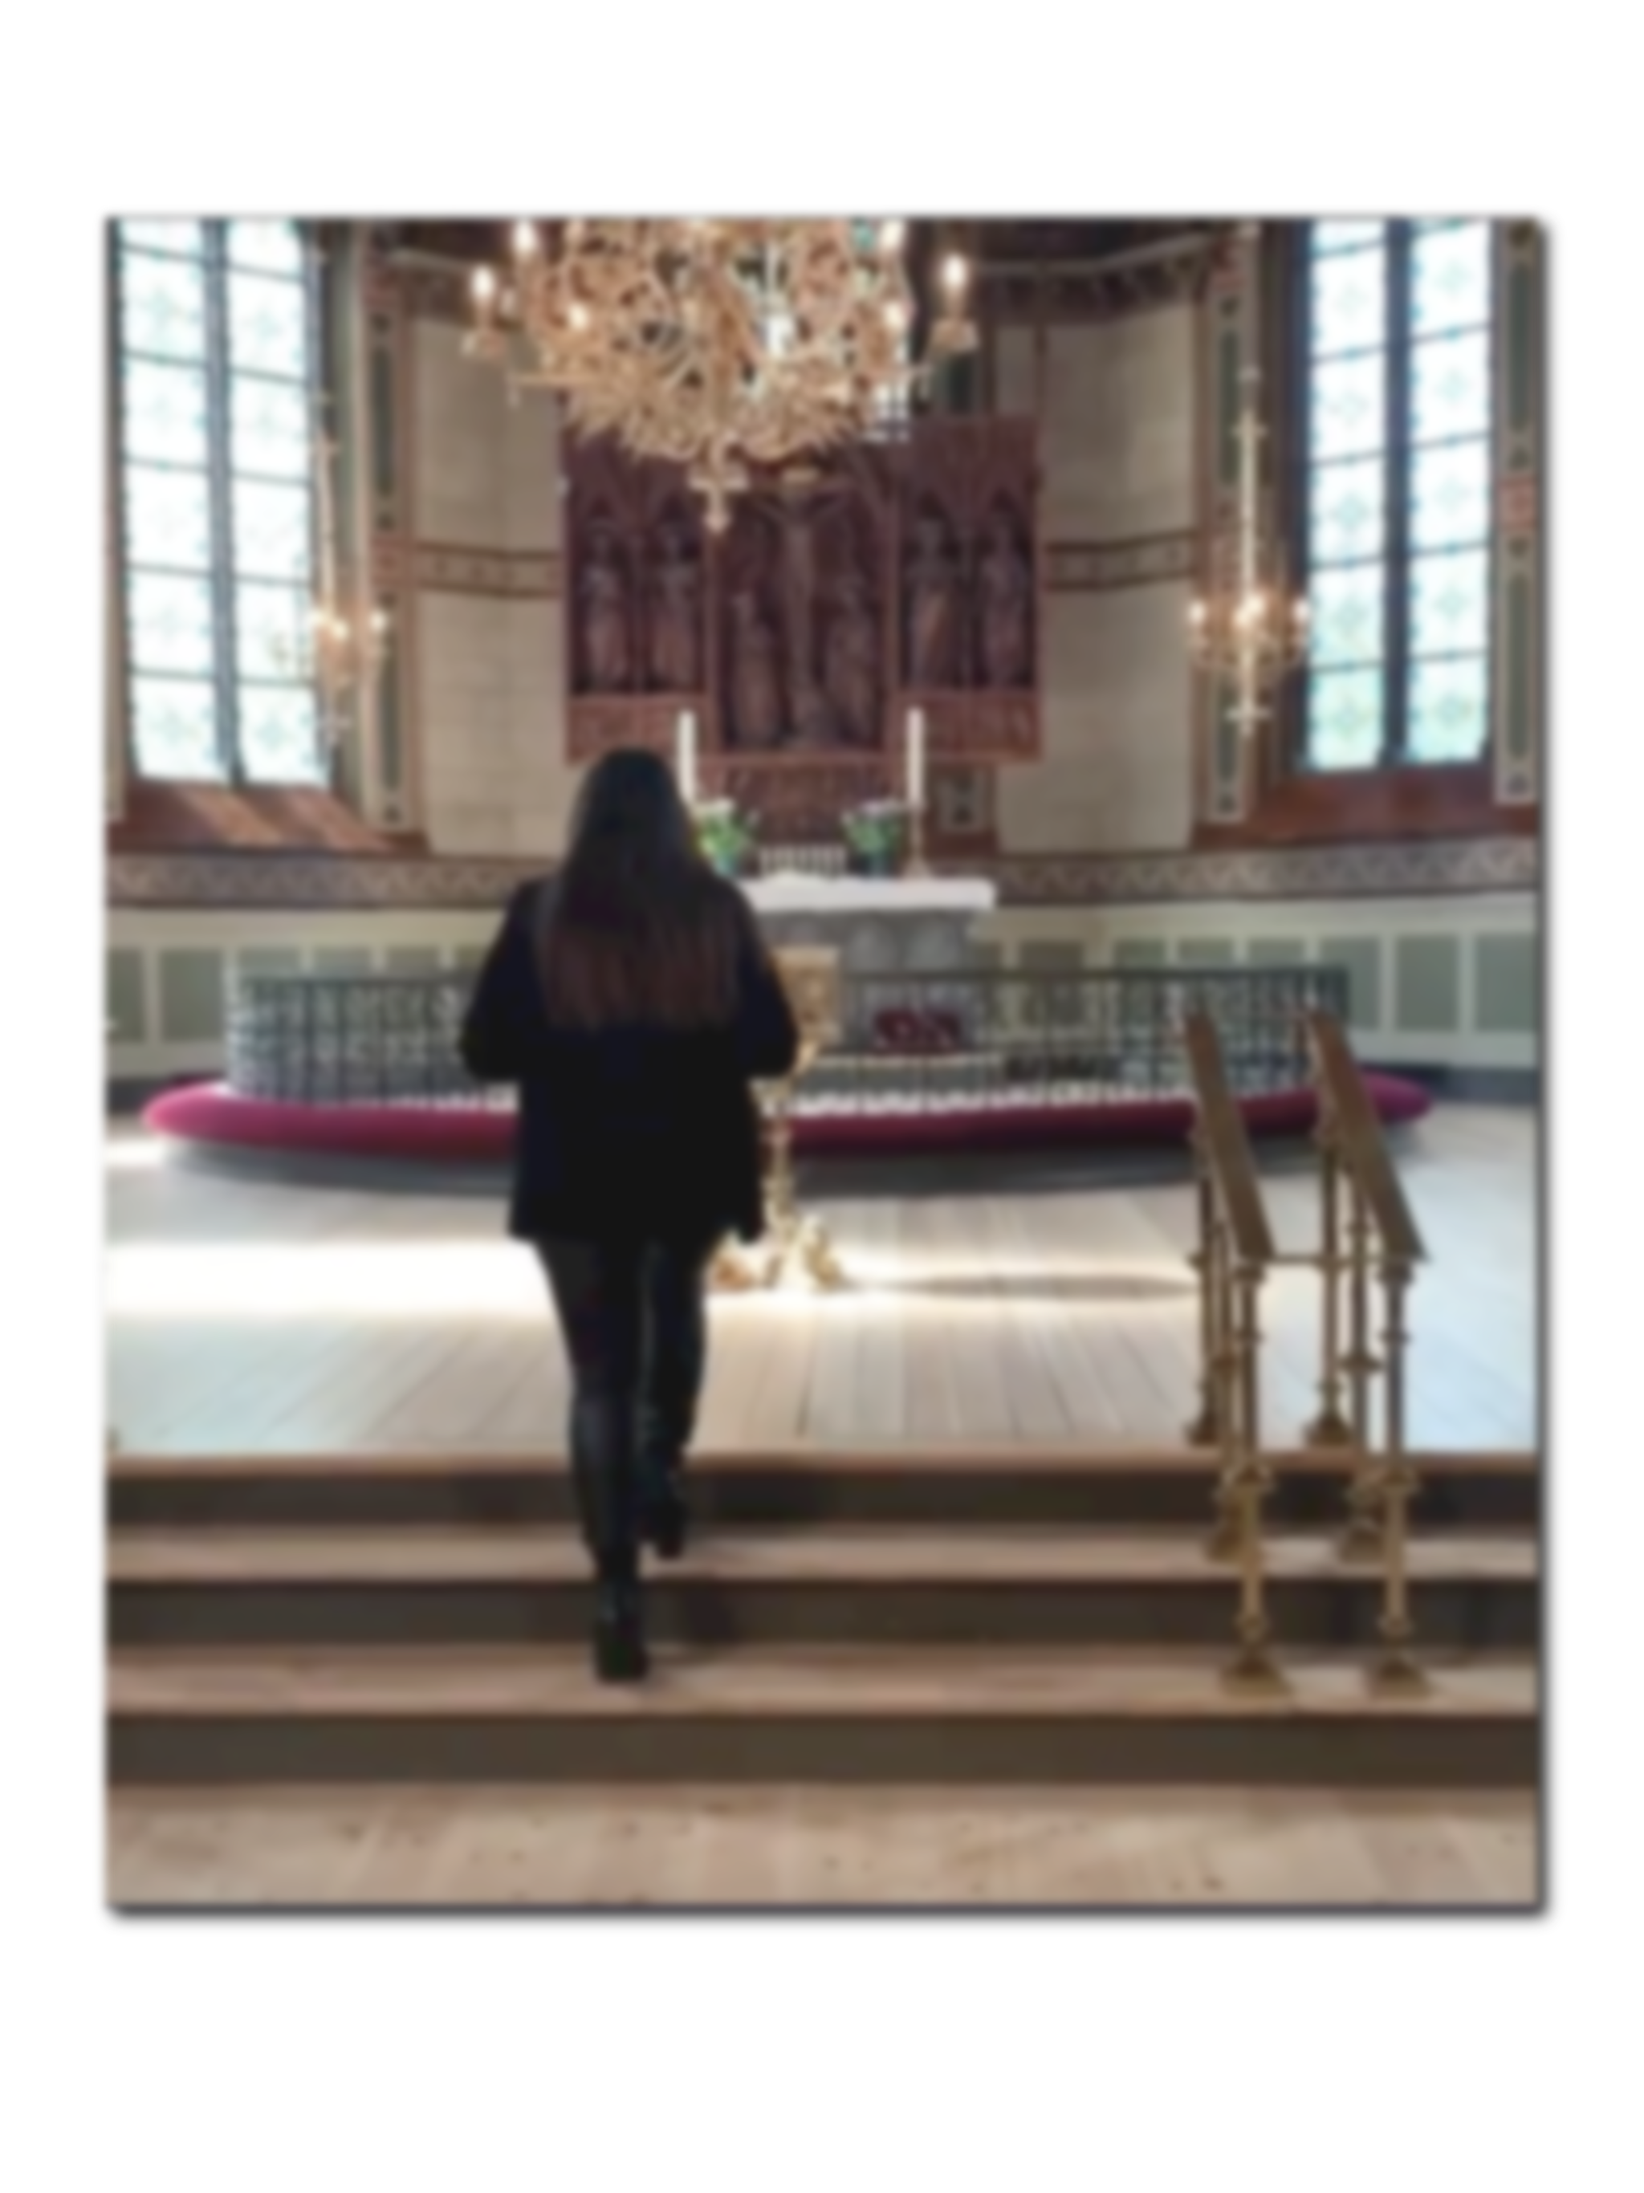
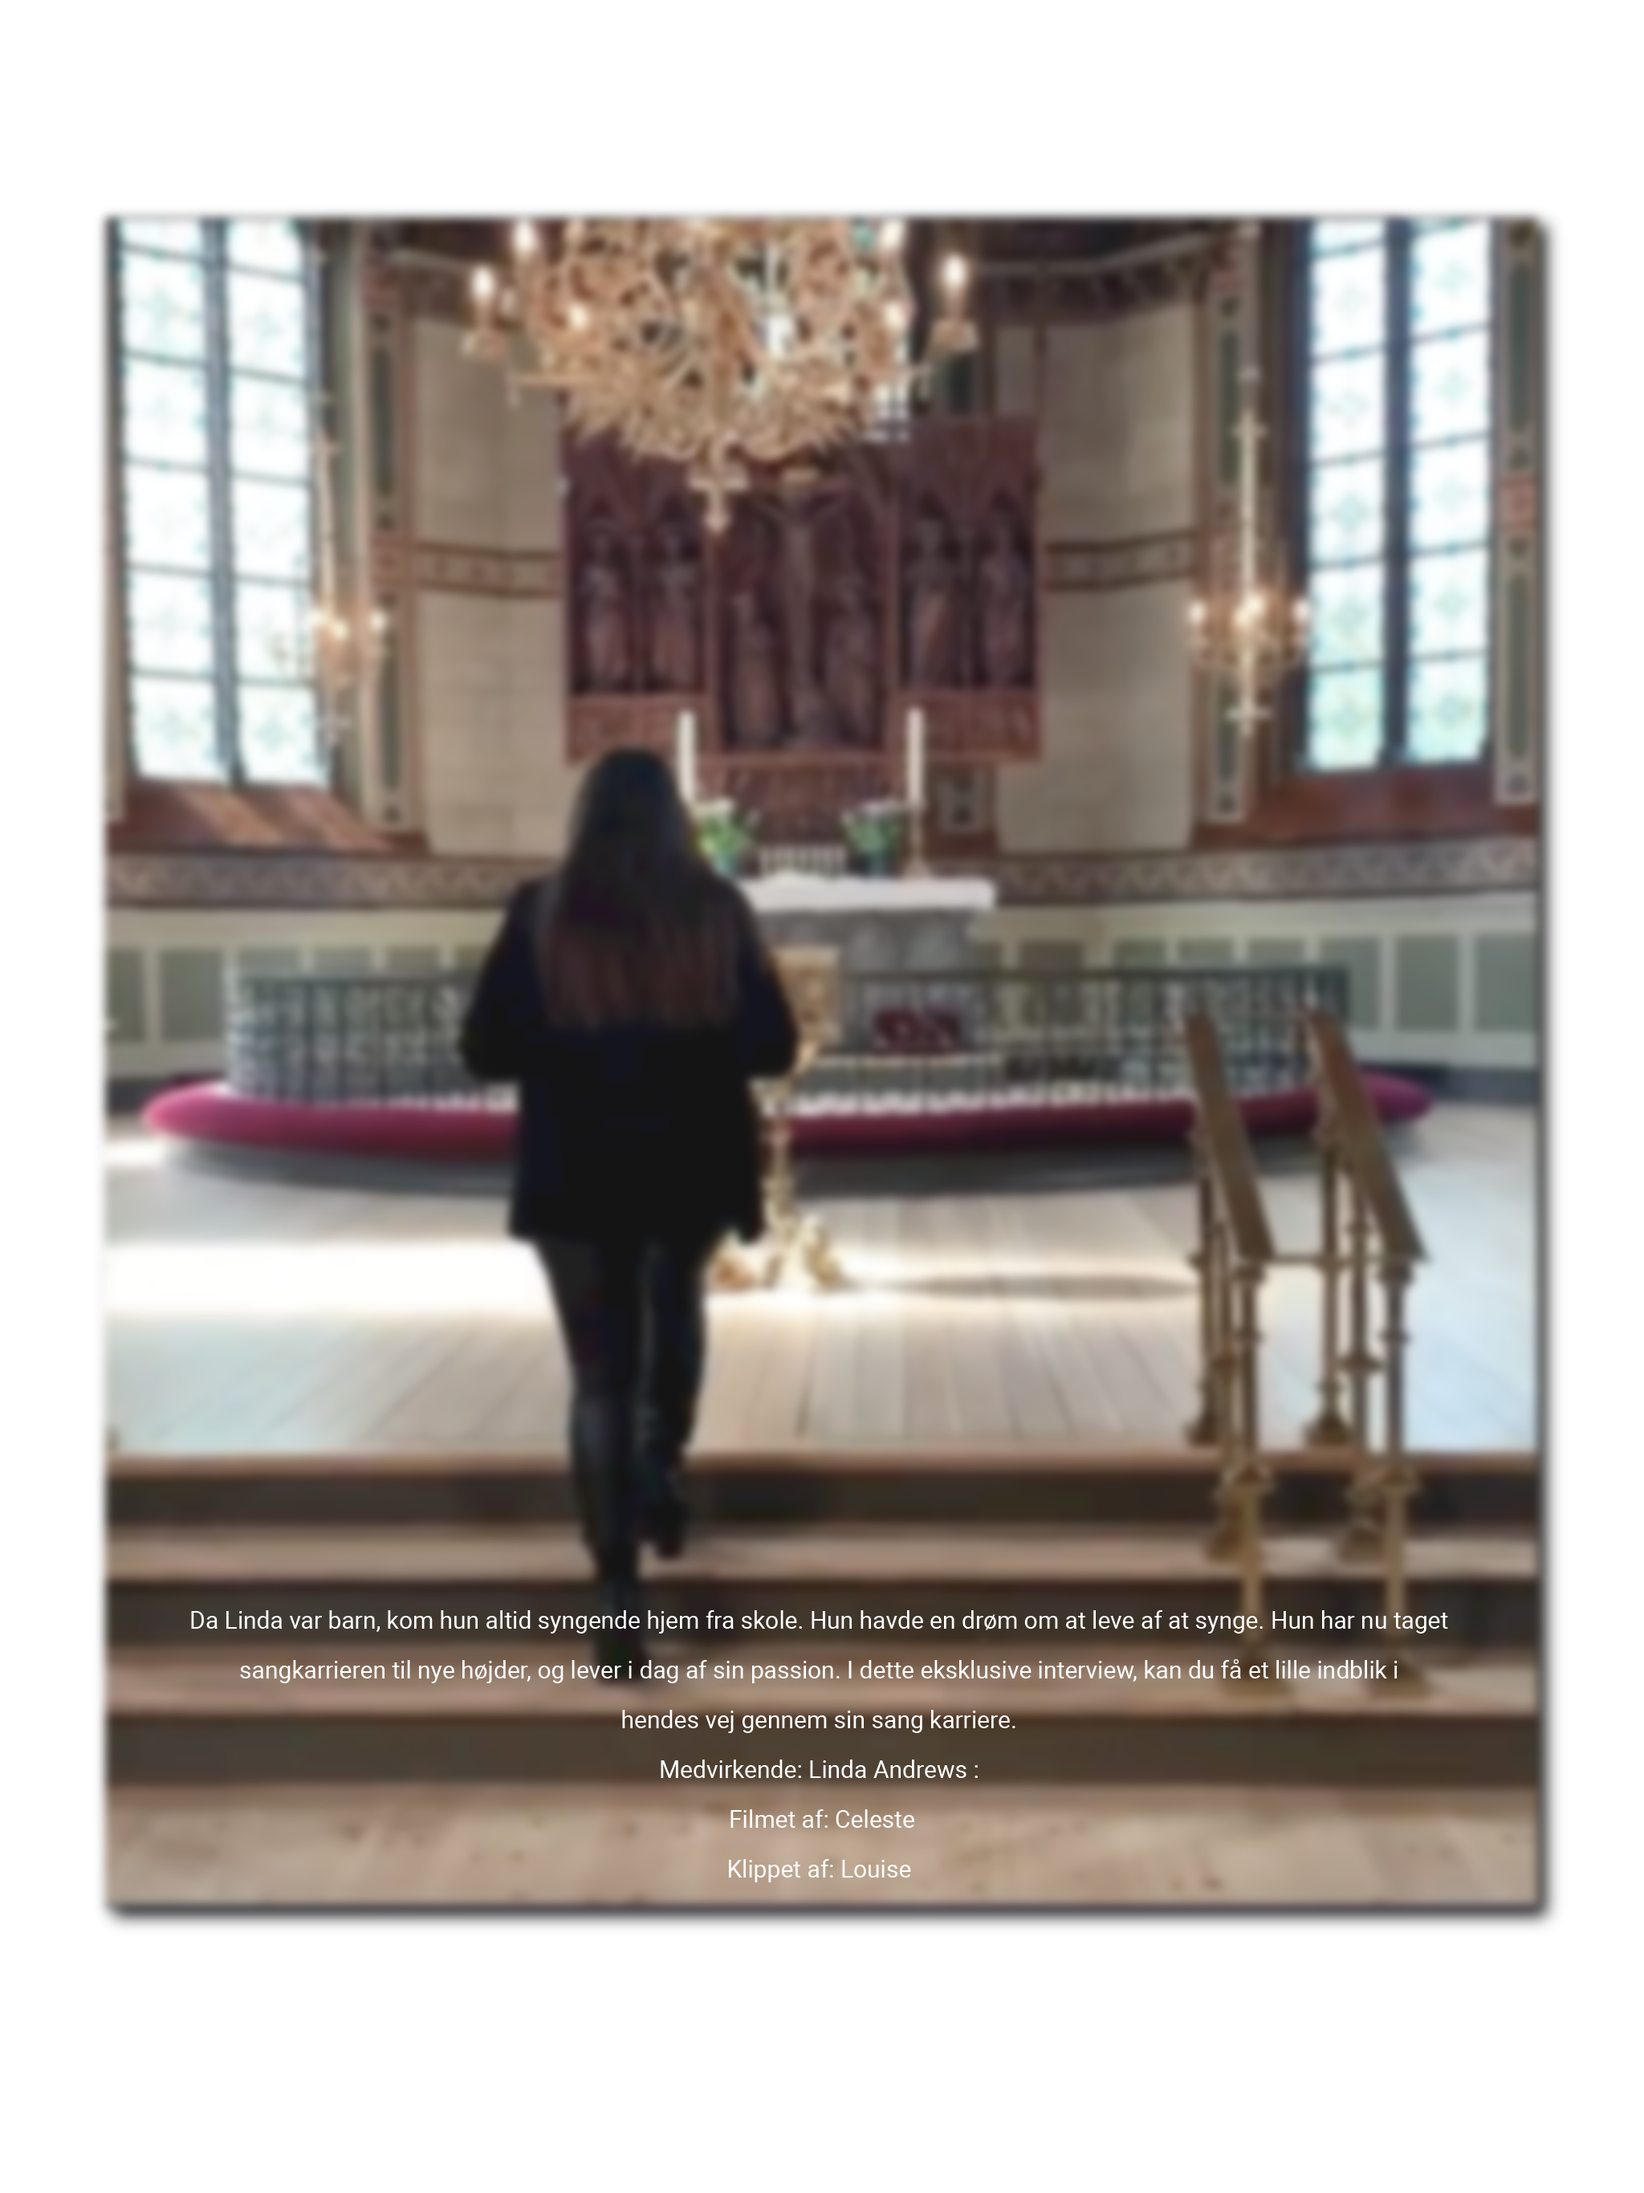
fourth commit

diff --git a/style.css b/style.css
@@ -69,6 +69,24 @@ main {
   width: 50%;
 }
 
+@media (max-width: 1200px) {
+  .plakat img {
+    width: 60%;
+  }
+}
+
+@media (max-width: 900px) {
+  .plakat img {
+    width: 80%;
+  }
+}
+
+@media (max-width: 700px) {
+  .plakat img {
+    width: 100%;
+  }
+}
+
 .plakat img,
 h1,
 p {
@@ -77,11 +95,33 @@ p {
 
 .plakat h1 {
   font-family: "IBM Plex Serif";
-  font-size: 80px;
+  font-size: 4.5rem;
   color: white;
   padding-bottom: 160px;
   text-align: center;
   line-height: 120px;
+}
+
+@media (max-width: 600px) {
+  .plakat h1 {
+    font-family: "IBM Plex Serif";
+    font-size: 4rem;
+    color: white;
+    padding-bottom: 160px;
+    text-align: center;
+    line-height: 120px;
+  }
+}
+
+@media (max-width: 500px) {
+  .plakat h1 {
+    font-family: "IBM Plex Serif";
+    font-size: 3rem;
+    color: white;
+    padding-bottom: 130px;
+    text-align: center;
+    line-height: 80px;
+  }
 }
 
 .plakat {
@@ -89,16 +129,7 @@ p {
 
   display: grid;
   place-items: center;
-  margin: 50px;
-}
-
-.plakat p {
-  font-family: "roboto";
-  font-size: 0.6rem;
-  color: white;
-  text-align: center;
-  padding-top: 400px;
-  line-height: 15px;
+  margin-block: 50px;
 }
 
 iframe,

diff --git a/index.html b/index.html
@@ -30,16 +30,6 @@
           Linda <br />
           Andrews
         </h1>
-        <p>
-          Da Linda var barn, kom hun altid syngende hjem fra skole. Hun havde en drøm om at leve af at synge. <br />
-          I dette eksklusive interview, kan du få et lille indblik i hendes vej <br />
-          gennem sin sang karriere <br />
-          Medvirkende: <br />
-          Linda Andrews <br />
-          Film: <br />
-          Filmet af: Celeste <br />
-          Klippet af: Louise <br />
-        </p>
       </div>
 
       <div class="content">
